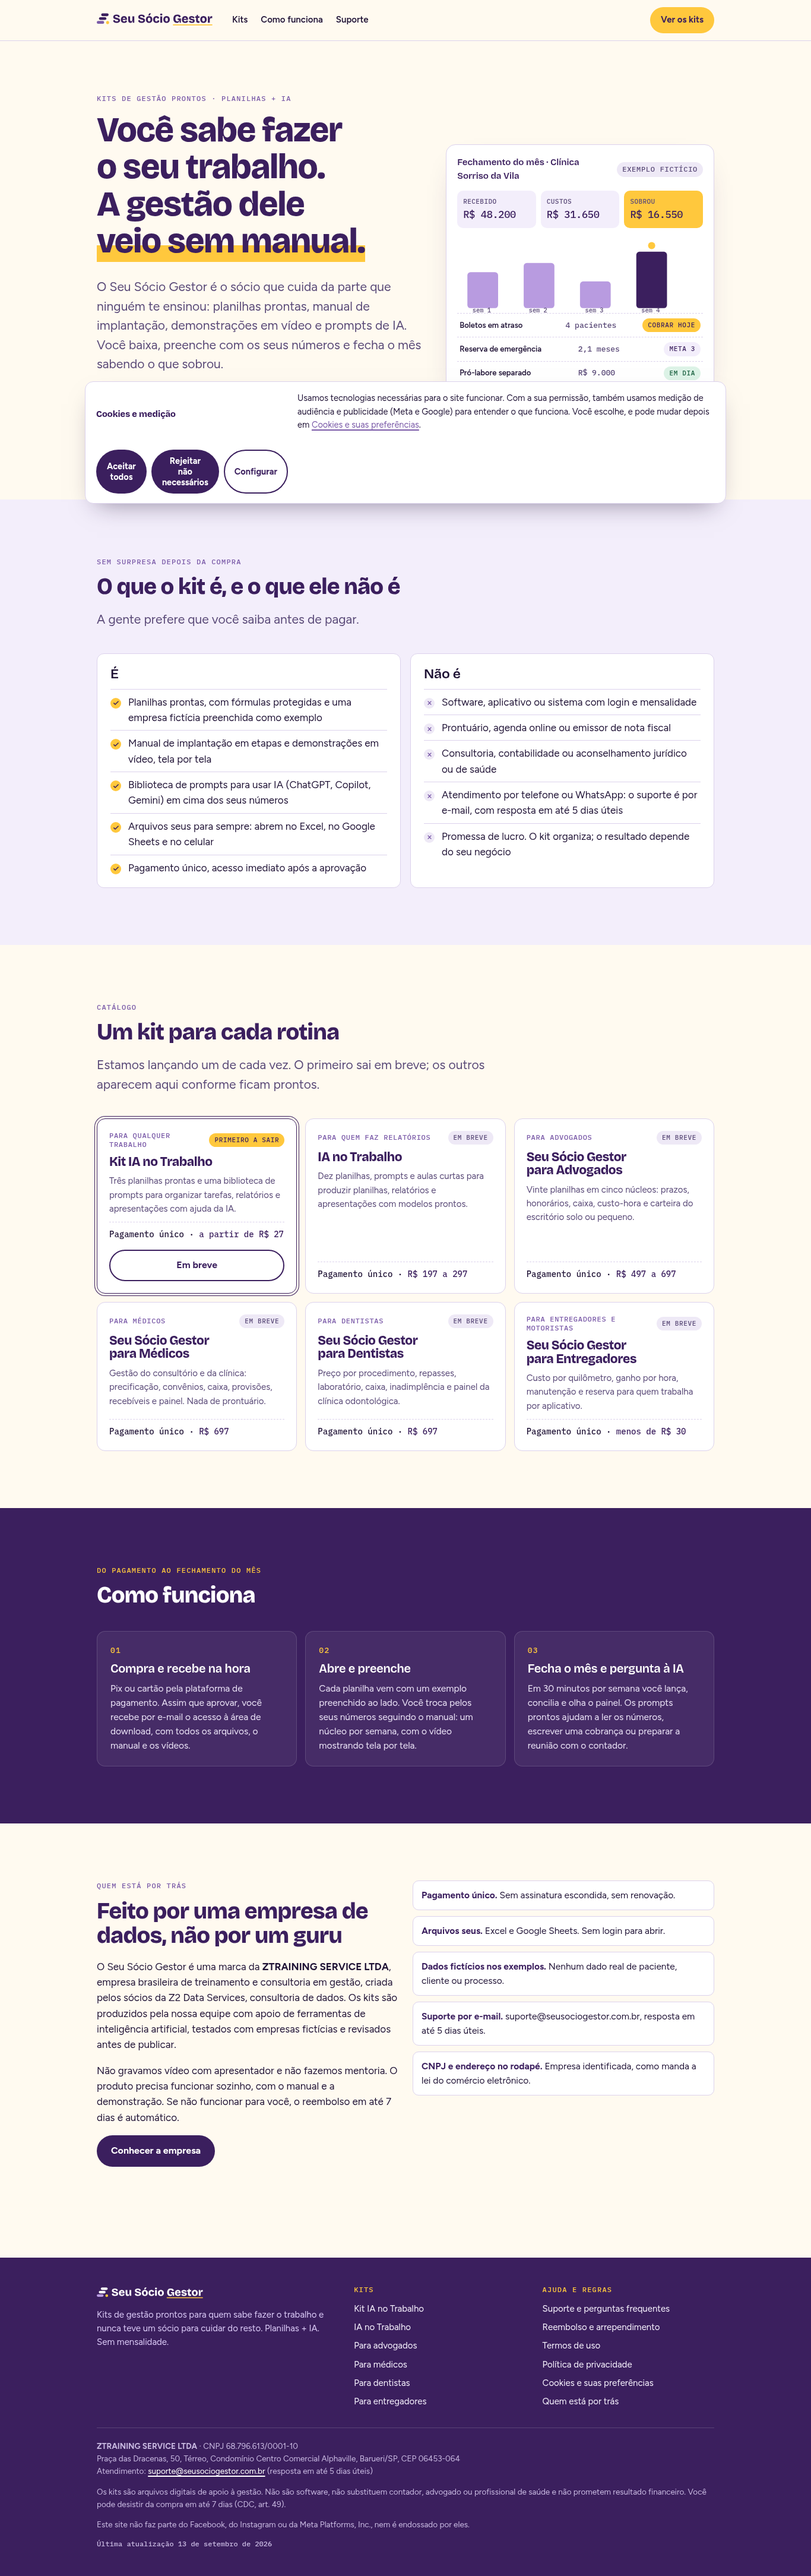
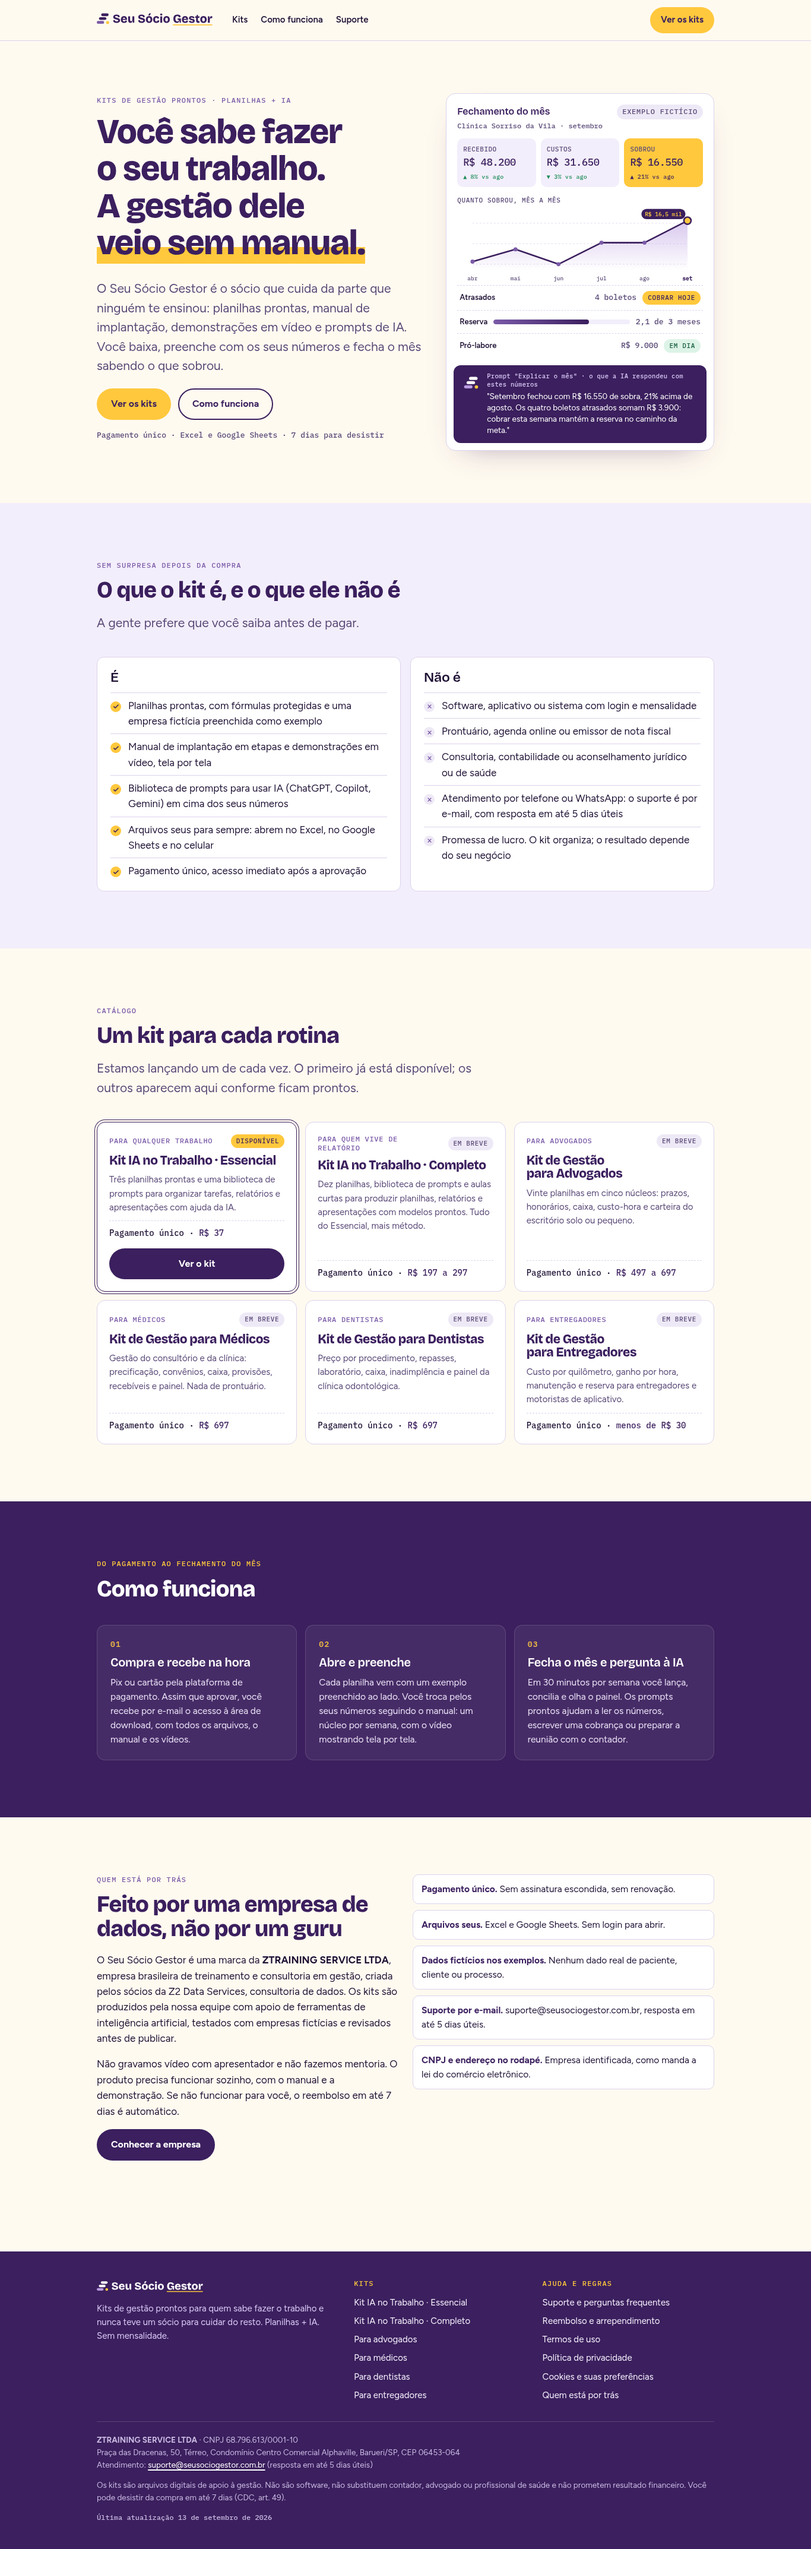
Home: painel do herói refeito (variações, gráfico de evolução, reserva com barra e resposta da IA)
Claude-Session: https://claude.ai/code/session_0146uBo6FVJ2cyEehyP8rK61

Changed region(s): [[0.0, 0.3747, 1.0, 0.9991], [0.123, 0.0312, 0.8917, 0.3434], [0.5227, 0.2498, 0.8609, 0.3434]]

diff --git a/projetos/gestao-ia-planilhas/site/src/pages/index.html b/projetos/gestao-ia-planilhas/site/src/pages/index.html
@@ -19,19 +19,31 @@ body_class: pagina-home
       <div class="painel__cab"><b>Fechamento do mês</b><span class="tag tag--neutro">exemplo fictício</span></div>
       <p class="painel__sub">Clínica Sorriso da Vila · setembro</p>
       <div class="painel__kpis">
-        <div class="kpi"><small>Recebido</small><b>R$ 48.200</b></div>
-        <div class="kpi"><small>Custos</small><b>R$ 31.650</b></div>
-        <div class="kpi kpi--sol"><small>Sobrou</small><b>R$ 16.550</b></div>
+        <div class="kpi"><small>Recebido</small><b>R$ 48.200</b><i class="delta delta--ok">▲ 8% vs ago</i></div>
+        <div class="kpi"><small>Custos</small><b>R$ 31.650</b><i class="delta delta--ok">▼ 3% vs ago</i></div>
+        <div class="kpi kpi--sol"><small>Sobrou</small><b>R$ 16.550</b><i class="delta">▲ 21% vs ago</i></div>
       </div>
-      <svg class="painel__grafico" viewBox="0 0 480 150" role="img" aria-label="Gráfico de barras de receita por semana, ilustrativo">
-        <g fill="#B89BE0"><rect x="20" y="70" width="60" height="70" rx="6"/><rect x="130" y="52" width="60" height="88" rx="6"/><rect x="240" y="88" width="60" height="52" rx="6"/></g>
-        <rect x="350" y="30" width="60" height="110" rx="6" fill="#3B1F5E"/>
-        <circle cx="380" cy="18" r="7" fill="#FFC83D"/>
-        <g font-family="IBM Plex Mono, monospace" font-size="12" fill="#5A4A78"><text x="30" y="148">sem 1</text><text x="140" y="148">sem 2</text><text x="250" y="148">sem 3</text><text x="360" y="148">sem 4</text></g>
+      <p class="painel__rot">Quanto sobrou, mês a mês</p>
+      <svg class="painel__grafico" viewBox="0 0 480 150" role="img" aria-label="Gráfico de linha do valor que sobrou nos últimos seis meses, ilustrativo">
+        <defs><linearGradient id="gsol" x1="0" y1="0" x2="0" y2="1"><stop offset="0" stop-color="#B89BE0" stop-opacity=".55"/><stop offset="1" stop-color="#B89BE0" stop-opacity="0"/></linearGradient></defs>
+        <g stroke="#DCD2EC" stroke-dasharray="3 4"><line x1="30" y1="30" x2="450" y2="30"/><line x1="30" y1="70" x2="450" y2="70"/><line x1="30" y1="110" x2="450" y2="110"/></g>
+        <path d="M30 105 L114 81 L198 110 L282 68 L366 68 L450 25 L450 122 L30 122 Z" fill="url(#gsol)"/>
+        <path d="M30 105 L114 81 L198 110 L282 68 L366 68 L450 25" fill="none" stroke="#3B1F5E" stroke-width="3" stroke-linejoin="round" stroke-linecap="round"/>
+        <g fill="#7A5AA8"><circle cx="30" cy="105" r="4"/><circle cx="114" cy="81" r="4"/><circle cx="198" cy="110" r="4"/><circle cx="282" cy="68" r="4"/><circle cx="366" cy="68" r="4"/></g>
+        <circle cx="450" cy="25" r="7" fill="#FFC83D" stroke="#3B1F5E" stroke-width="3"/>
+        <rect x="360" y="2" width="86" height="20" rx="10" fill="#3B1F5E"/><text x="403" y="16" text-anchor="middle" font-family="IBM Plex Mono, monospace" font-size="11" fill="#FFC83D">R$ 16,5 mil</text>
+        <g font-family="IBM Plex Mono, monospace" font-size="11" fill="#5A4A78" text-anchor="middle"><text x="30" y="142">abr</text><text x="114" y="142">mai</text><text x="198" y="142">jun</text><text x="282" y="142">jul</text><text x="366" y="142">ago</text><text x="450" y="142" fill="#3B1F5E" font-weight="700">set</text></g>
       </svg>
       <div class="painel__linha"><b>Atrasados</b><span class="mono">4 boletos</span><span class="tag tag--sol">cobrar hoje</span></div>
-      <div class="painel__linha"><b>Reserva</b><span class="mono">2,1 meses</span><span class="tag tag--lilas">meta 3</span></div>
+      <div class="painel__linha painel__linha--barra"><b>Reserva</b><span class="barra" aria-hidden="true"><i style="width:70%"></i></span><span class="mono">2,1 de 3 meses</span></div>
       <div class="painel__linha"><b>Pró-labore</b><span class="mono">R$ 9.000</span><span class="tag tag--ok">em dia</span></div>
+      <div class="painel__ia">
+        <img src="/assets/img/simbolo-fundo-uva.svg" alt="" width="34" height="34">
+        <div>
+          <small>Prompt "Explicar o mês" · o que a IA respondeu com estes números</small>
+          <p>"Setembro fechou com R$ 16.550 de sobra, 21% acima de agosto. Os quatro boletos atrasados somam R$ 3.900: cobrar esta semana mantém a reserva no caminho da meta."</p>
+        </div>
+      </div>
     </div>
   </div>
 </section>

diff --git a/projetos/gestao-ia-planilhas/site/public/index.html b/projetos/gestao-ia-planilhas/site/public/index.html
@@ -53,19 +53,31 @@
       <div class="painel__cab"><b>Fechamento do mês</b><span class="tag tag--neutro">exemplo fictício</span></div>
       <p class="painel__sub">Clínica Sorriso da Vila · setembro</p>
       <div class="painel__kpis">
-        <div class="kpi"><small>Recebido</small><b>R$ 48.200</b></div>
-        <div class="kpi"><small>Custos</small><b>R$ 31.650</b></div>
-        <div class="kpi kpi--sol"><small>Sobrou</small><b>R$ 16.550</b></div>
+        <div class="kpi"><small>Recebido</small><b>R$ 48.200</b><i class="delta delta--ok">▲ 8% vs ago</i></div>
+        <div class="kpi"><small>Custos</small><b>R$ 31.650</b><i class="delta delta--ok">▼ 3% vs ago</i></div>
+        <div class="kpi kpi--sol"><small>Sobrou</small><b>R$ 16.550</b><i class="delta">▲ 21% vs ago</i></div>
       </div>
-      <svg class="painel__grafico" viewBox="0 0 480 150" role="img" aria-label="Gráfico de barras de receita por semana, ilustrativo">
-        <g fill="#B89BE0"><rect x="20" y="70" width="60" height="70" rx="6"/><rect x="130" y="52" width="60" height="88" rx="6"/><rect x="240" y="88" width="60" height="52" rx="6"/></g>
-        <rect x="350" y="30" width="60" height="110" rx="6" fill="#3B1F5E"/>
-        <circle cx="380" cy="18" r="7" fill="#FFC83D"/>
-        <g font-family="IBM Plex Mono, monospace" font-size="12" fill="#5A4A78"><text x="30" y="148">sem 1</text><text x="140" y="148">sem 2</text><text x="250" y="148">sem 3</text><text x="360" y="148">sem 4</text></g>
+      <p class="painel__rot">Quanto sobrou, mês a mês</p>
+      <svg class="painel__grafico" viewBox="0 0 480 150" role="img" aria-label="Gráfico de linha do valor que sobrou nos últimos seis meses, ilustrativo">
+        <defs><linearGradient id="gsol" x1="0" y1="0" x2="0" y2="1"><stop offset="0" stop-color="#B89BE0" stop-opacity=".55"/><stop offset="1" stop-color="#B89BE0" stop-opacity="0"/></linearGradient></defs>
+        <g stroke="#DCD2EC" stroke-dasharray="3 4"><line x1="30" y1="30" x2="450" y2="30"/><line x1="30" y1="70" x2="450" y2="70"/><line x1="30" y1="110" x2="450" y2="110"/></g>
+        <path d="M30 105 L114 81 L198 110 L282 68 L366 68 L450 25 L450 122 L30 122 Z" fill="url(#gsol)"/>
+        <path d="M30 105 L114 81 L198 110 L282 68 L366 68 L450 25" fill="none" stroke="#3B1F5E" stroke-width="3" stroke-linejoin="round" stroke-linecap="round"/>
+        <g fill="#7A5AA8"><circle cx="30" cy="105" r="4"/><circle cx="114" cy="81" r="4"/><circle cx="198" cy="110" r="4"/><circle cx="282" cy="68" r="4"/><circle cx="366" cy="68" r="4"/></g>
+        <circle cx="450" cy="25" r="7" fill="#FFC83D" stroke="#3B1F5E" stroke-width="3"/>
+        <rect x="360" y="2" width="86" height="20" rx="10" fill="#3B1F5E"/><text x="403" y="16" text-anchor="middle" font-family="IBM Plex Mono, monospace" font-size="11" fill="#FFC83D">R$ 16,5 mil</text>
+        <g font-family="IBM Plex Mono, monospace" font-size="11" fill="#5A4A78" text-anchor="middle"><text x="30" y="142">abr</text><text x="114" y="142">mai</text><text x="198" y="142">jun</text><text x="282" y="142">jul</text><text x="366" y="142">ago</text><text x="450" y="142" fill="#3B1F5E" font-weight="700">set</text></g>
       </svg>
       <div class="painel__linha"><b>Atrasados</b><span class="mono">4 boletos</span><span class="tag tag--sol">cobrar hoje</span></div>
-      <div class="painel__linha"><b>Reserva</b><span class="mono">2,1 meses</span><span class="tag tag--lilas">meta 3</span></div>
+      <div class="painel__linha painel__linha--barra"><b>Reserva</b><span class="barra" aria-hidden="true"><i style="width:70%"></i></span><span class="mono">2,1 de 3 meses</span></div>
       <div class="painel__linha"><b>Pró-labore</b><span class="mono">R$ 9.000</span><span class="tag tag--ok">em dia</span></div>
+      <div class="painel__ia">
+        <img src="/assets/img/simbolo-fundo-uva.svg" alt="" width="34" height="34">
+        <div>
+          <small>Prompt "Explicar o mês" · o que a IA respondeu com estes números</small>
+          <p>"Setembro fechou com R$ 16.550 de sobra, 21% acima de agosto. Os quatro boletos atrasados somam R$ 3.900: cobrar esta semana mantém a reserva no caminho da meta."</p>
+        </div>
+      </div>
     </div>
   </div>
 </section>

diff --git a/projetos/gestao-ia-planilhas/site/public/assets/css/site.css b/projetos/gestao-ia-planilhas/site/public/assets/css/site.css
@@ -55,7 +55,8 @@ p{margin:0 0 1em;max-width:65ch}
 
 /* hero */
 .hero{padding-block:clamp(40px,7vw,88px);overflow:hidden}
-.hero__in{display:grid;gap:36px;align-items:center}
+.hero__in{display:grid;grid-template-columns:minmax(0,1fr);gap:36px;align-items:center}
+.hero__in>*{min-width:0}
 @media (min-width:860px){.hero__in{grid-template-columns:1.1fr .9fr}}
 .hero h1 em{font-style:normal;background:linear-gradient(transparent 60%,var(--sol) 60%)}
 .hero__acoes{display:flex;flex-wrap:wrap;gap:12px;margin-top:8px}
@@ -65,14 +66,19 @@ p{margin:0 0 1em;max-width:65ch}
 .hero__nota--itens span+span::before{content:"·";margin:0 7px}
 .painel{background:#fff;border:1px solid var(--linha);border-radius:16px;padding:18px;box-shadow:0 20px 50px -30px rgba(59,31,94,.45);max-width:520px;justify-self:center;width:100%}
 .painel__cab{display:flex;justify-content:space-between;align-items:center;gap:12px;margin-bottom:2px}
+.painel__tit{display:flex;flex-direction:column;min-width:0}
+.painel__tit .painel__sub{margin:2px 0 0;white-space:nowrap;overflow:hidden;text-overflow:ellipsis}
 .painel__sub{font-family:var(--mono);font-size:12px;color:var(--tinta-2);margin:0 0 12px}
 .painel__cab .tag{flex:none;white-space:nowrap}
 .painel__cab b{font-family:var(--display);font-weight:600;color:var(--uva);font-size:16px;white-space:nowrap}
 .painel__cab span{font-family:var(--mono);font-size:12px;color:var(--tinta-2)}
-.painel__kpis{display:grid;grid-template-columns:repeat(3,1fr);gap:8px;margin-bottom:14px}
+.painel__kpis{display:grid;grid-template-columns:repeat(3,minmax(0,1fr));gap:8px;margin-bottom:14px}
 .kpi{background:var(--lavanda);border-radius:10px;padding:10px 10px;min-width:0}
 .kpi small{display:block;font-size:11px;color:var(--tinta-2);letter-spacing:.04em;text-transform:uppercase;font-family:var(--mono)}
-.kpi b{font-family:var(--mono);font-weight:500;font-size:clamp(13px,3.6vw,17px);letter-spacing:-.02em;white-space:nowrap;color:var(--uva);font-variant-numeric:tabular-nums}
+.kpi b{display:block;font-family:var(--mono);font-weight:500;font-size:clamp(13px,3.6vw,17px);letter-spacing:-.02em;white-space:nowrap;color:var(--uva);font-variant-numeric:tabular-nums}
+.delta{display:block;font-style:normal;font-family:var(--mono);font-size:10px;letter-spacing:.02em;color:var(--tinta-2);white-space:nowrap;margin-top:3px}
+.delta--ok{color:var(--ok)}
+.kpi--sol .delta{color:var(--uva)}
 .kpi--sol{background:var(--sol)}
 .painel__grafico{width:100%;height:auto}
 .painel__linha{display:flex;gap:10px;align-items:center;font-size:13px;padding:9px 4px;border-top:1px dashed var(--linha)}
@@ -313,3 +319,13 @@ p{margin:0 0 1em;max-width:65ch}
 .exemplo__nota{font-family:var(--mono);font-size:12px!important;color:var(--tinta-2);margin:4px 0 0!important}
 .exemplo__porque{margin:20px 0 0;max-width:70ch;font-size:16px;background:#fff;border-left:4px solid var(--sol);padding:12px 16px;border-radius:0 10px 10px 0}
 .exemplo__porque b{color:var(--uva)}
+
+/* painel do herói (home) v2 */
+.painel__rot{font-family:var(--mono);font-size:11px;letter-spacing:.06em;text-transform:uppercase;color:var(--tinta-2);margin:2px 0 4px}
+.painel__linha--barra .barra{flex:1 1 60px;height:8px;border-radius:var(--pill);background:var(--lavanda);overflow:hidden;min-width:40px}
+.painel__linha--barra .barra i{display:block;height:100%;background:linear-gradient(90deg,var(--lilas),var(--uva));border-radius:var(--pill)}
+.painel__linha--barra b{flex:0 0 auto}
+.painel__ia{display:flex;gap:10px;align-items:flex-start;margin:12px -6px -6px;padding:12px;background:var(--uva);border-radius:12px;color:#F3EEFB}
+.painel__ia img{width:34px;height:34px;flex:none;border-radius:9px}
+.painel__ia small{display:block;font-family:var(--mono);font-size:10.5px;letter-spacing:.03em;color:#D9C8F5;margin-bottom:4px;line-height:1.3}
+.painel__ia p{margin:0;font-size:13.5px;line-height:1.4;color:#fff;max-width:none}

diff --git a/projetos/gestao-ia-planilhas/DECISOES.md b/projetos/gestao-ia-planilhas/DECISOES.md
@@ -62,3 +62,5 @@
   explicando o que é um prompt com um prompt real do kit e a resposta que a IA devolve. Público iniciante não sabe o
   que é prompt nem por que a planilha ajuda.
 - Regra geral confirmada: nada quebra linha em botão, tag, chip ou linha de painel.
+
+- Painel do herói da home: a primeira imagem do site precisa contar a história completa (números com variação, evolução, reserva e a IA explicando o mês). Painel simples demais não vende.
